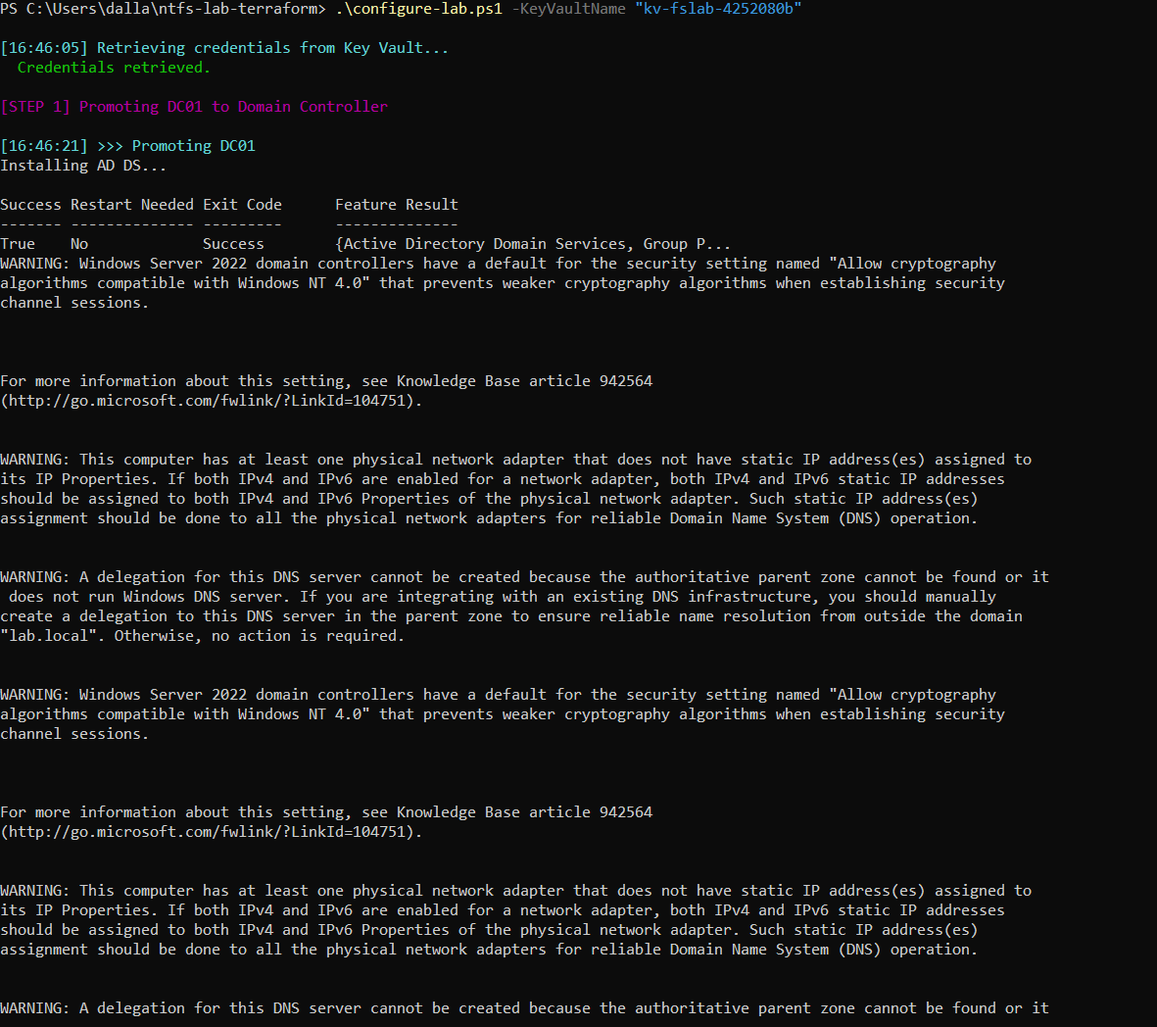
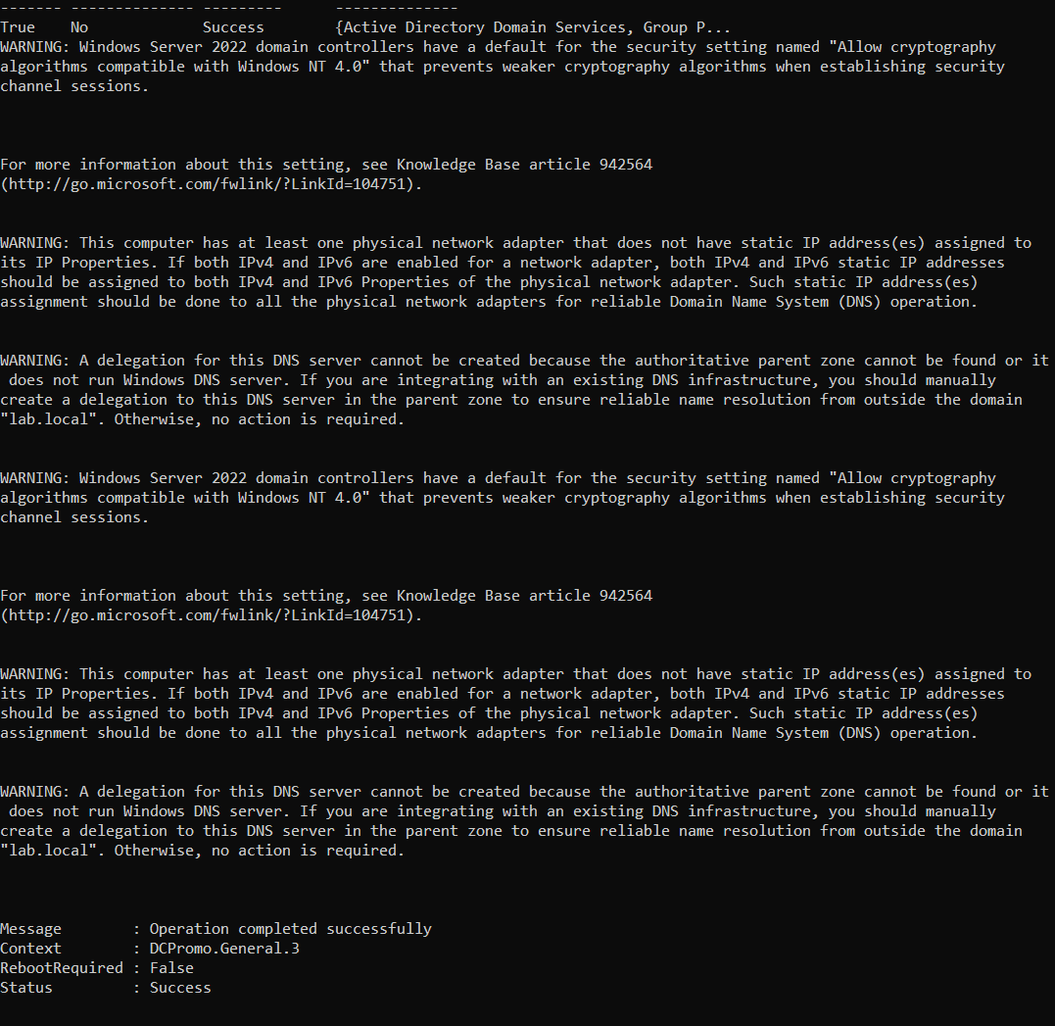
Complete Lab 03 NTFS file server documentation and images

diff --git a/phase-06/cloud-tech-techniques/cloud-system-admin-accelerator/lab-03_ntfs-file-server/README.md b/phase-06/cloud-tech-techniques/cloud-system-admin-accelerator/lab-03_ntfs-file-server/README.md
@@ -1,4 +1,4 @@
-# NTFS File Server Lab - Hardened Windows File Server on Azure
+# NTFS File Server Lab — Hardened Windows File Server on Azure
 
 ![Terraform](https://img.shields.io/badge/Terraform-v1.16.2-844FBA?style=flat-square&logo=terraform)
 ![Azure](https://img.shields.io/badge/Azure-centralus-0078D4?style=flat-square&logo=microsoftazure)
@@ -9,9 +9,9 @@
 | | |
 |---|---|
 | **Author** | Dalla Samuel (CyberJKD) |
-| **Date** | September 21 - 24, 2026 |
+| **Date** | September 21–24, 2026 |
 | **Platform** | Microsoft Azure |
-| **Course** | Cloud System Admin Accelerator - Cloud Tech Techniques |
+| **Course** | Cloud System Admin Accelerator — Cloud Tech Techniques |
 | **Roadmap** | Phase 06 · Cloud Tech Techniques · Cloud System Admin Accelerator |
 
 ---
@@ -22,7 +22,7 @@ Deploy a three-tier Windows file server environment (domain controller, file ser
 
 ## Business Problem
 
-Every organization running Windows file shares needs the same three things: users only see and reach the data their role requires, that access is enforced by AD group membership rather than by hand-editing ACLs machine by machine, and someone can prove after the fact who tried to touch what. A file server with permissions granted straight to project groups gets the first part right and stops there - it doesn't scale cleanly across many resources, doesn't hide what people can't use, and doesn't leave an audit trail. This lab builds the full version: Account → Global group → Domain-Local group → Permission (AGDLP), Access-Based Enumeration so denied shares don't even appear, storage governance via FSRM, and Security-log auditing on every denied attempt.
+Every organization running Windows file shares needs the same three things: users only see and reach the data their role requires, that access is enforced by AD group membership rather than by hand-editing ACLs machine by machine, and someone can prove after the fact who tried to touch what. A file server with permissions granted straight to project groups gets the first part right and stops there — it doesn't scale cleanly across many resources, doesn't hide what people can't use, and doesn't leave an audit trail. This lab builds the full version: Account → Global group → Domain-Local group → Permission (AGDLP), Access-Based Enumeration so denied shares don't even appear, storage governance via FSRM, and Security-log auditing on every denied attempt.
 
 ## Environment
 
@@ -31,9 +31,9 @@ Every organization running Windows file shares needs the same three things: user
 | Terraform | v1.16.2 |
 | Azure CLI | current, `cyberjkd-labs` subscription |
 | Region | `Central US` |
-| VM Size | `Standard_D2s_v7` (see Troubleshooting Log #2 - B-series and Basv2 had zero quota) |
+| VM Size | `Standard_D2s_v7` (see Troubleshooting Log #2 — `Standard_Basv2` had zero quota; `Standard_B2s` and `Standard_D2s_v3` weren't offered in this region for this subscription) |
 | DC01 / FS01 | Windows Server 2022 Datacenter (Azure Edition), no public IP |
-| CLIENT01 | Windows 11 Pro (`win11-25h2-pro` - see Troubleshooting Log #1), single public IP, locked to admin `/32` |
+| CLIENT01 | Windows 11 Pro (`win11-25h2-pro` — see Troubleshooting Log #1), single public IP, locked to admin `/32` |
 | Resource Group | `RG-FileServerLab` |
 | Domain | `lab.local` (NetBIOS `LAB`) |
 | Key Vault | `kv-fslab-xxxxxxxx`, RBAC-enabled, purge protection on |
@@ -41,12 +41,12 @@ Every organization running Windows file shares needs the same three things: user
 
 ## Key Concepts
 
-- **AGDLP** - Account into Global group, Global group nested into Domain-Local group, permission granted to the Domain-Local group. The textbook Windows permission pattern; scales past a handful of shares in a way that granting global groups directly does not.
-- **Access-Based Enumeration (ABE)** - hides folders and shares a user has no access to, instead of showing them and returning Access Denied on open.
-- **File Server Resource Manager (FSRM)** - storage quotas and file-type screens enforced at the file-server level, independent of NTFS permissions.
-- **GPO logon scripts** - the reliable way to map network drives by group membership; Group Policy Preferences drive maps look simpler but depend on version-stamp metadata that hand-writing the preference XML into SYSVOL silently skips (see Troubleshooting Log #7).
-- **Object-access auditing (SACL)** - a permission grants or denies access; a SACL is the separate setting that makes Windows *log* the attempt to the Security event log.
-- **Infrastructure-as-Code hardening** - using a static analysis tool (Checkov) against the Terraform itself, not just the deployed resources, and documenting every exception in code rather than fixing or silently ignoring it.
+- **AGDLP** — Account into Global group, Global group nested into Domain-Local group, permission granted to the Domain-Local group. The textbook Windows permission pattern; scales past a handful of shares in a way that granting global groups directly does not.
+- **Access-Based Enumeration (ABE)** — hides folders and shares a user has no access to, instead of showing them and returning Access Denied on open.
+- **File Server Resource Manager (FSRM)** — storage quotas and file-type screens enforced at the file-server level, independent of NTFS permissions.
+- **GPO logon scripts** — the reliable way to map network drives by group membership; Group Policy Preferences drive maps look simpler but depend on version-stamp metadata that hand-writing the preference XML into SYSVOL silently skips (see Troubleshooting Log #7).
+- **Object-access auditing (SACL)** — a permission grants or denies access; a SACL is the separate setting that makes Windows *log* the attempt to the Security event log.
+- **Infrastructure-as-Code hardening** — using a static analysis tool (Checkov) against the Terraform itself, not just the deployed resources, and documenting every exception in code rather than fixing or silently ignoring it.
 
 ## Architecture
 
@@ -60,91 +60,91 @@ Azure Subscription (cyberjkd-labs)
    └── RG-FileServerLab (Central US)
         ├── VNET-FileServerLab (10.0.0.0/16)
         │    └── Subnet-Servers (10.0.1.0/24) — NSG attached at subnet level
-        │         ├── DC01   - 10.0.1.4 (static), no public IP
-        │         ├── FS01   - dynamic private IP, no public IP
-        │         └── CLIENT01 - dynamic private IP + public IP (RDP, locked to admin /32)
-        ├── NAT Gateway - outbound internet for DC01 / FS01 (no public IP needed)
-        ├── Key Vault (RBAC) - admin password + 5x per-user passwords
-        ├── Log Analytics workspace - Data Collection Rule filters EventID 4656/4663/4660
-        ├── Consumption Budget - $25/month, 80% and 100% email alerts
-        └── Auto-shutdown schedules - all 3 VMs, 23:00 daily
+        │         ├── DC01   — 10.0.1.4 (static), no public IP
+        │         ├── FS01   — dynamic private IP, no public IP
+        │         └── CLIENT01 — dynamic private IP + public IP (RDP, locked to admin /32)
+        ├── NAT Gateway — outbound internet for DC01 / FS01 (no public IP needed)
+        ├── Key Vault (RBAC) — admin password + 5x per-user passwords
+        ├── Log Analytics workspace — Data Collection Rule filters EventID 4656/4663/4660
+        ├── Consumption Budget — $25/month, 80% and 100% email alerts
+        └── Auto-shutdown schedules — all 3 VMs, 23:00 daily
 ```
 
 DC01 runs Active Directory, DNS, Group Policy, and the AGDLP group structure. FS01 hosts the four SMB shares, their NTFS permissions, Access-Based Enumeration, FSRM quotas and file screens, and the audit SACLs. CLIENT01 is the domain-joined workstation the five test users log into to exercise the full permission chain.
 
 ## Exercises
 
-### Phase A - Base Deployment and Terraform Hardening
+### Phase A — Base Deployment and Terraform Hardening
 
-**A. Pre-flight checks.** Windows 11's default VM image SKU (`win11-23h2-pro`) had been retired from the marketplace. Checked quota across every VM family before picking a size rather than guessing size by size - `Standard_Basv2` came back at zero, and the next candidate, `Standard_B2s`, turned out to be zero too, both ruled out before settling on `Standard_D2s_v7`.
+**A. Pre-flight checks.** Windows 11's default VM image SKU (`win11-23h2-pro`) had been retired from the marketplace. Checked quota and regional availability across several VM families before picking a size rather than guessing size by size — `Standard_Basv2` came back at zero quota; `Standard_D2s_v3` and `Standard_B2s` were both ruled out next, not for quota but because neither was offered in this region for this subscription; `Standard_D2s_v7` had both quota and no restrictions, so that's what was used.
 
 ![Quota and SKU check](images/01-preflight-quota-and-sku-check.png)
 
-**B. Terraform scaffold.** Six `.tf` files - `backend.tf`, `versions.tf`, `variables.tf`, `main.tf`, `keyvault.tf`, `outputs.tf` - plus the `scripts/` folder holding the eight PowerShell scripts the orchestration script pushes to the VMs. (`hardening.tf` was added later, in Phase A step H.)
+**B. Terraform scaffold.** Six `.tf` files — `backend.tf`, `versions.tf`, `variables.tf`, `main.tf`, `keyvault.tf`, `outputs.tf` — plus the `scripts/` folder holding the eight PowerShell scripts the orchestration script pushes to the VMs. (`hardening.tf` was added later, in Phase A step H.)
 
 ![Terraform files created](images/02-terraform-files-created.png)
 
-**C. Deploy.** `terraform init` → `terraform plan` (24 resources) → `terraform apply`. Hit a genuine race condition on the first attempt - Azure allocated DC01's intended static IP (`10.0.1.4`) to FS01's dynamic NIC because all three NICs were created in parallel with no ordering between them.
+**C. Deploy.** `terraform init` → `terraform plan` (24 resources) → `terraform apply`. Hit a genuine race condition on the first attempt — Azure allocated DC01's intended static IP (`10.0.1.4`) to FS01's dynamic NIC because all three NICs were created in parallel with no ordering between them.
 
 ![Terraform plan summary](images/03-terraform-plan-summary.png)
 ![Subnet race condition error](images/04-error-subnet-race-condition.png)
 ![Apply retry after fix](images/05-apply-retry-after-race-fix.png)
 
-**D. Run the orchestration script.** `configure-lab.ps1` pushes each stage to the right VM via `az vm run-command`, no manual RDP required for setup. First attempt blocked by the local PowerShell execution policy - a client-side setting, unrelated to the `Set-ExecutionPolicy` lines already inside each pushed script.
+**D. Run the orchestration script.** `configure-lab.ps1` pushes each stage to the right VM via `az vm run-command`, no manual RDP required for setup. First attempt blocked by the local PowerShell execution policy — a client-side setting, unrelated to the `Set-ExecutionPolicy` lines already inside each pushed script.
 
 ![Execution policy fix](images/06-execution-policy-fix.png)
 ![DC promotion success](images/07-dc-promotion-success.png)
 ![Full verification passed](images/08-verification-passed-lab-configured.png)
 
-**E. Verify the base permission model (Step 9).** RDP'd in as each of the five test users and confirmed the SOP's intended access matrix - Finance/HR/Sales/IT shares, each with the correct read/write/full-control/denied combination per department.
+**E. Verify the base permission model (Step 9).** RDP'd in as each of the five test users and confirmed the SOP's intended access matrix — Finance/HR/Sales/IT shares, each with the correct read/write/full-control/denied combination per department.
 
-![Lisa White - Finance read-only, write denied](images/09-lisa-white-finance-readonly-denied.png)
-![Lisa White - HR write succeeds](images/10-lisa-white-hr-write-success.png)
-![John Smith - IT full control](images/11-john-smith-it-full-control.png)
-![John Smith - Finance full control](images/12-john-smith-finance-full-control.png)
-![John Smith - HR, Security tab open](images/13-john-smith-hr-security-tab.png)
-![Tom Davis - confirmed identity](images/14-tom-davis-startmenu-confirmed.png)
-![Tom Davis - Finance denied](images/15-tom-davis-finance-denied.png)
-![Tom Davis - HR denied](images/16-tom-davis-hr-denied.png)
-![Tom Davis - Sales access granted](images/17-tom-davis-sales-access-granted.png)
+![Lisa White — Finance read-only, write denied](images/09-lisa-white-finance-readonly-denied.png)
+![Lisa White — HR write succeeds](images/10-lisa-white-hr-write-success.png)
+![John Smith — IT full control](images/11-john-smith-it-full-control.png)
+![John Smith — Finance full control](images/12-john-smith-finance-full-control.png)
+![John Smith — HR, Security tab open](images/13-john-smith-hr-security-tab.png)
+![Tom Davis — confirmed identity](images/14-tom-davis-startmenu-confirmed.png)
+![Tom Davis — Finance denied](images/15-tom-davis-finance-denied.png)
+![Tom Davis — HR denied](images/16-tom-davis-hr-denied.png)
+![Tom Davis — Sales access granted](images/17-tom-davis-sales-access-granted.png)
 
-**F. Baseline the NTFS permissions before hardening.** Ran `icacls` against all four shares to capture the "before" state - each share's ACL held only its own department's global group, plus SYSTEM and Administrators.
+**F. Baseline the NTFS permissions before hardening.** Ran `icacls` against all four shares to capture the "before" state — each share's ACL held only its own department's global group, plus SYSTEM and Administrators.
 
 ![icacls baseline, all shares](images/18-icacls-baseline-all-shares.png)
 
-**G. Scan the Terraform with Checkov.** Baseline scan: **19 passed, 17 failed**. Ten failures were straightforward fixes (Key Vault purge protection, secret expiry and content type, encryption at host, moving the NSG to the subnet instead of per-NIC, removing public IPs from DC01/FS01). Seven were deliberate, documented exceptions - Key Vault network isolation would lock out a rotating home IP; the VM extensions are required for `run-command` automation and the monitoring agent; CLIENT01 keeps its single public IP as the one RDP entry point.
+**G. Scan the Terraform with Checkov.** Baseline scan: **19 passed, 17 failed**. Ten failures were straightforward fixes (Key Vault purge protection, secret expiry and content type, encryption at host, moving the NSG to the subnet instead of per-NIC, removing public IPs from DC01/FS01). Seven were deliberate, documented exceptions — Key Vault network isolation would lock out a rotating home IP; the VM extensions are required for `run-command` automation and the monitoring agent; CLIENT01 keeps its single public IP as the one RDP entry point.
 
-**H. Apply the hardening.** Rebuilding `main.tf` to drop the server public IPs and add a NAT gateway hit a genuine Terraform ordering problem: flipping the subnet's `default_outbound_access_enabled` flag forced a delete-and-recreate of the subnet, but the subnet couldn't be deleted while the NICs still referenced it, and the NIC updates that would detach them were scheduled *after* the new subnet - a dependency deadlock. Resolved by dropping that flag once the NAT gateway made it redundant, and splitting the public-IP removal into two separate applies so the NIC-detach step ran before the IP-delete step instead of racing it.
+**H. Apply the hardening.** Rebuilding `main.tf` to drop the server public IPs and add a NAT gateway hit a genuine Terraform ordering problem: flipping the subnet's `default_outbound_access_enabled` flag forced a delete-and-recreate of the subnet, but the subnet couldn't be deleted while the NICs still referenced it, and the NIC updates that would detach them were scheduled *after* the new subnet — a dependency deadlock. Resolved by dropping that flag once the NAT gateway made it redundant, and splitting the public-IP removal into two separate applies so the NIC-detach step ran before the IP-delete step instead of racing it.
 
 ![Encryption at host feature registered](images/19-encryption-at-host-registered.png)
 ![Checkov after Key Vault fix](images/20-checkov-keyvault-fixed.png)
 ![Terraform validate and plan](images/21-terraform-validate-plan-quoted.png)
-![Hardening apply - NSG and VM updates](images/22-hardening-apply-nsg-vm-updates.png)
-![Checkov final - 31 passed, 0 failed, 7 skipped](images/23-checkov-31-0-7-final.png)
+![Hardening apply — NSG and VM updates](images/22-hardening-apply-nsg-vm-updates.png)
+![Checkov final — 31 passed, 0 failed, 7 skipped](images/23-checkov-31-0-7-final.png)
 ![Encryption at host plan confirmed](images/24-encryption-at-host-plan-confirmed.png)
 ![Final clean verification](images/25-final-verification-all-clean.png)
 
 Final Checkov result: **31 passed, 0 failed, 7 skipped with a written reason on each.**
 
-### Phase B - Active Directory and File Server Hardening
+### Phase B — Active Directory and File Server Hardening
 
-**I. Per-user passwords.** Replaced the SOP's single shared test password with five independently generated 18-character random passwords, one per user, stored only in Key Vault - nothing hardcoded in any script from this point forward.
+**I. Per-user passwords.** Replaced the SOP's single shared test password with five independently generated 18-character random passwords, one per user, stored only in Key Vault — nothing hardcoded in any script from this point forward.
 
 **J. AGDLP.** Created five domain-local groups (`DL_Finance_Modify`, `DL_Finance_Read`, `DL_HR_Modify`, `DL_Sales_Modify`, `DL_IT_FullControl`), nested the existing global groups into them, then re-pointed every share's NTFS ACL from the global groups onto the domain-local groups. Verified via `gpresult /r` that a user's token correctly carries both the global and domain-local group membership.
 
-**K. Access-Based Enumeration.** Turned on `FolderEnumerationMode: AccessBased` on all four shares - confirmed via `Get-SmbShare`. A user with no access to a share no longer sees it in the browse list at all.
+**K. Access-Based Enumeration.** Turned on `FolderEnumerationMode: AccessBased` on all four shares — confirmed via `Get-SmbShare`. A user with no access to a share no longer sees it in the browse list at all.
 
 **L. FSRM.** 5 GB quota on each of the four shares, plus a file screen on Finance and HR blocking executable file types (`.exe`, `.bat`, `.cmd`, `.ps1`, `.vbs`).
 
-**M. GPO drive mapping.** First attempt used Group Policy Preferences drive maps, hand-written directly into SYSVOL - `gpresult` showed the GPO as "Applied," but the drive never mapped. Root cause: GPP requires the GPO's `GPT.INI` version stamp and AD `versionNumber` attribute to be bumped, which only happens automatically through the GPMC editor; writing the XML by hand skipped that step. Switched to a GPO-deployed logon script (`net use`, gated by `whoami /groups`) instead - the older, more universally reliable mechanism. Confirmed working: `F:` mapped to `\\FS01\Finance` for a Finance-group user.
+**M. GPO drive mapping.** First attempt used Group Policy Preferences drive maps, hand-written directly into SYSVOL — `gpresult` showed the GPO as "Applied," but the drive never mapped. Root cause: GPP requires the GPO's `GPT.INI` version stamp and AD `versionNumber` attribute to be bumped, which only happens automatically through the GPMC editor; writing the XML by hand skipped that step. Switched to a GPO-deployed logon script (`net use`, gated by `whoami /groups`) instead — the older, more universally reliable mechanism. Confirmed working: `F:` mapped to `\\FS01\Finance` for a Finance-group user.
 
-**N. Object-access auditing.** Enabled File System object-access auditing (Success and Failure) and added a SACL to all four shares. Confirmed the pipeline works by testing Tom Davis's denied Finance attempt and pulling the actual event directly from the Security log with `Get-WinEvent` - `Account Name: tom.davis`, `Object Name: C:\Shares\Finance`, `ReadData (or ListDirectory): Not granted`.
+**N. Object-access auditing.** Enabled File System object-access auditing (Success and Failure) and added a SACL to all four shares. Confirmed the pipeline works by testing Tom Davis's denied Finance attempt and pulling the actual event directly from the Security log with `Get-WinEvent` — `Account Name: tom.davis`, `Object Name: C:\Shares\Finance`, `ReadData (or ListDirectory): Not granted`.
 
-**O. Log Analytics shipping - partial.** Installed the Azure Monitor Agent extension on FS01 (reported `provisioningState: Succeeded`) and created a Data Collection Rule filtering EventID 4656/4663/4660 to the workspace. The extension's success report did not reflect reality: the agent's Windows service never actually registered on FS01 (`Get-Service` found no Azure Monitor Agent service at all), so no event ever shipped to Log Analytics. The underlying audit event is real and captured directly from the Security log (step N); the Azure-side ingestion is a documented, unresolved gap - see What I'd Change for Production.
+**O. Log Analytics shipping — partial.** Installed the Azure Monitor Agent extension on FS01 (reported `provisioningState: Succeeded`) and created a Data Collection Rule filtering EventID 4656/4663/4660 to the workspace. The extension's success report did not reflect reality: the agent's Windows service never actually registered on FS01 (`Get-Service` found no Azure Monitor Agent service at all), so no event ever shipped to Log Analytics. The underlying audit event is real and captured directly from the Security log (step N); the Azure-side ingestion is a documented, unresolved gap — see What I'd Change for Production.
 
 ## Terraform Configuration
 
-The working `.tf` files are in [`terraform/`](terraform/) - `backend.tf`, `versions.tf`, `variables.tf`, `main.tf`, `keyvault.tf`, `hardening.tf`, `outputs.tf`. Copy `terraform.tfvars.example` to `terraform.tfvars` and fill in your own values — don't retype from the screenshots above. The Checkov reports (`checkov-baseline.txt`, `checkov-after.txt`, `checkov-final.txt`) and the pre-hardening `icacls-baseline.txt` are included in the same folder as evidence.
+The working `.tf` files are in [`terraform/`](terraform/) — `backend.tf`, `versions.tf`, `variables.tf`, `main.tf`, `keyvault.tf`, `hardening.tf`, `outputs.tf`. Copy `terraform.tfvars.example` to `terraform.tfvars` and fill in your own values — don't retype from the screenshots above. The Checkov reports (`checkov-baseline.txt`, `checkov-after.txt`, `checkov-final.txt`) and the pre-hardening `icacls-baseline.txt` are included in the same folder as evidence.
 
 ## Command Reference
 
@@ -200,13 +200,13 @@ terraform destroy
 
 **1. `win11-23h2-pro` retired from the marketplace.** The Windows 11 image SKU used by earlier labs in this series was no longer offered. Checked the current SKU list (`az vm image list-skus`) and switched to `win11-25h2-pro`.
 
-**2. Zero quota on `Standard_B2as_v2` and `Standard_B2s`.** Both returned a 0 limit for this subscription in Central US. Rather than guess further, pulled the full quota table (`az vm list-usage`) and cross-checked against `az vm list-skus --size <name> -o table` for a size with both known quota and no `Restrictions` flag - landed on `Standard_D2s_v7`.
+**2. `Standard_Basv2` at zero quota; `Standard_D2s_v3` and `Standard_B2s` not offered in this region.** The Basv2 family (which covers the SOP's default `Standard_B2as_v2`) returned an actual `0` quota limit for this subscription. The next two candidates, `Standard_D2s_v3` and `Standard_B2s`, weren't a quota problem at all — `az vm list-skus --size <name>` returned nothing for either, meaning Azure doesn't offer them in this region for this subscription. Pulled the full quota table (`az vm list-usage`) and cross-checked against `az vm list-skus -o table` for a size with both known quota and no `Restrictions` flag — landed on `Standard_D2s_v7`.
 
 **3. Subnet IP race condition.** All three NICs were created in parallel with no explicit ordering, so Azure handed DC01's intended static address (`10.0.1.4`) to FS01's dynamic NIC. Fixed by adding an explicit `depends_on` from the dynamic NICs to DC01's NIC, then destroying and recreating just the pieces that had grabbed the wrong address.
 
-**4. PowerShell execution policy blocked the orchestration script.** `configure-lab.ps1` failed to run locally with "running scripts is disabled on this system" - a client-side policy on the operator's own machine, separate from the `Set-ExecutionPolicy` calls already inside each script that gets pushed to the VMs. Fixed with `Set-ExecutionPolicy -Scope Process -Force` in the local session.
+**4. PowerShell execution policy blocked the orchestration script.** `configure-lab.ps1` failed to run locally with "running scripts is disabled on this system" — a client-side policy on the operator's own machine, separate from the `Set-ExecutionPolicy` calls already inside each script that gets pushed to the VMs. Fixed with `Set-ExecutionPolicy -Scope Process -Force` in the local session.
 
-**5. Subnet replacement deadlock during hardening.** Setting `default_outbound_access_enabled = false` on the subnet forces Terraform to delete and recreate it in place, but the existing NICs still referenced the old subnet, and the plan tried to destroy the subnet *before* those NICs were updated to detach - a dependency cycle Terraform couldn't resolve on its own. Resolved by removing that setting once the NAT gateway (added separately) made the subnet-level flag redundant for outbound connectivity.
+**5. Subnet replacement deadlock during hardening.** Setting `default_outbound_access_enabled = false` on the subnet forces Terraform to delete and recreate it in place, but the existing NICs still referenced the old subnet, and the plan tried to destroy the subnet *before* those NICs were updated to detach — a dependency cycle Terraform couldn't resolve on its own. Resolved by removing that setting once the NAT gateway (added separately) made the subnet-level flag redundant for outbound connectivity.
 
 **6. Public IP deletion raced against NIC detachment.** Even after fixing #5, a single `terraform apply` tried to delete `dc01-pip`/`fs01-pip` in the same operation as detaching them from their NICs, and Azure rejected the delete because the NIC still held a reference at that instant. Split into two applies: detach first (`-target` on the two NICs), then a full apply to handle the rest.
 
@@ -214,20 +214,20 @@ terraform destroy
 
 **8. Azure Monitor Agent extension reported success without actually installing.** `az vm extension set` for `AzureMonitorWindowsAgent` returned `provisioningState: Succeeded`, but `Get-Service` on FS01 found no matching service at all. The extension deployment and the in-guest service registration are evidently not the same guarantee. Confirmed the underlying audit data was real by pulling it directly from the Windows Security log instead of relying on the broken shipping path.
 
-**9. Data Collection Rule schema - `Microsoft-SecurityEvent` table unavailable.** The DCR initially targeted the `Microsoft-SecurityEvent` stream, which requires the destination workspace to already have Sentinel or the Security Events connector enabled - a brand-new workspace doesn't have that table. Switched the stream to `Microsoft-Event` (the generic Windows Event Log stream, always available), which would have written to the standard `Event` table had the agent actually been running (see #8).
+**9. Data Collection Rule schema — `Microsoft-SecurityEvent` table unavailable.** The DCR initially targeted the `Microsoft-SecurityEvent` stream, which requires the destination workspace to already have Sentinel or the Security Events connector enabled — a brand-new workspace doesn't have that table. Switched the stream to `Microsoft-Event` (the generic Windows Event Log stream, always available), which would have written to the standard `Event` table had the agent actually been running (see #8).
 
 ## What I'd Change for Production
 
 - **Fix or replace the Log Analytics shipping path.** The AMA extension's false-success report is the one unresolved gap in this lab. Production would need to actually validate the in-guest service state post-deployment (not just trust the ARM provisioning state), or fall back to a Windows Event Forwarding subscription as a more transparent alternative.
 - **Azure Bastion instead of a public IP on CLIENT01.** The lab still exposes one RDP entry point, locked to a single `/32`, but a home IP that rotates as often as this one did means re-touching the NSG rule constantly. Bastion removes the public IP and the rotating-IP maintenance entirely.
 - **Per-user Key Vault access policies**, not one shared deployer identity with `Key Vault Secrets Officer` on the whole vault. Production would scope each service or operator to only the secrets it actually needs.
-- **GPO drive maps done through GPMC**, not hand-authored SYSVOL XML - the logon-script fallback works, but a real Windows environment should just use the tooling as intended, which sidesteps the version-stamp trap entirely.
+- **GPO drive maps done through GPMC**, not hand-authored SYSVOL XML — the logon-script fallback works, but a real Windows environment should just use the tooling as intended, which sidesteps the version-stamp trap entirely.
 - **Enable Microsoft Sentinel** once the ingestion path is fixed, and build the actual KQL detection rule as an alert, not just a query run manually after the fact.
 - **A NAT gateway is a recurring cost** worth toggling off between sessions on a lab subscription; production would size it against real egress volume rather than leaving it always-on by default.
 
 ## Connection to Roadmap
 
-This lab sits under **Phase 06 - Cloud Tech Techniques - Cloud System Admin Accelerator** of the [CyberJKD Roadmap](https://dallasamuel.github.io/CyberJKD-Roadmap). Repo path: `phase-06/cloud-tech-techniques/cloud-system-admin-accelerator/lab-03_ntfs-file-server/`.
+This lab sits under **Phase 06 — Cloud Tech Techniques — Cloud System Admin Accelerator** of the [CyberJKD Roadmap](https://dallasamuel.github.io/CyberJKD-Roadmap). Repo path: `phase-06/cloud-tech-techniques/cloud-system-admin-accelerator/lab-03_ntfs-file-server/`.
 
 Per the same completion-batching approach used elsewhere in this series, Phase 06 is added to the live roadmap site once the full Cloud System Admin Accelerator course is complete, not lab-by-lab.
 
@@ -239,4 +239,4 @@ Per the same completion-batching approach used elsewhere in this series, Phase 0
 
 ---
 
-*CyberJKD - Becoming dangerous through fundamentals. 🔒*
+*CyberJKD — Becoming dangerous through fundamentals. 🔒*
